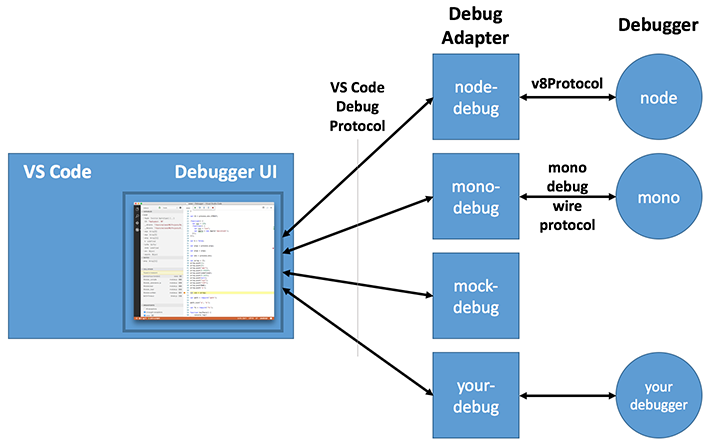
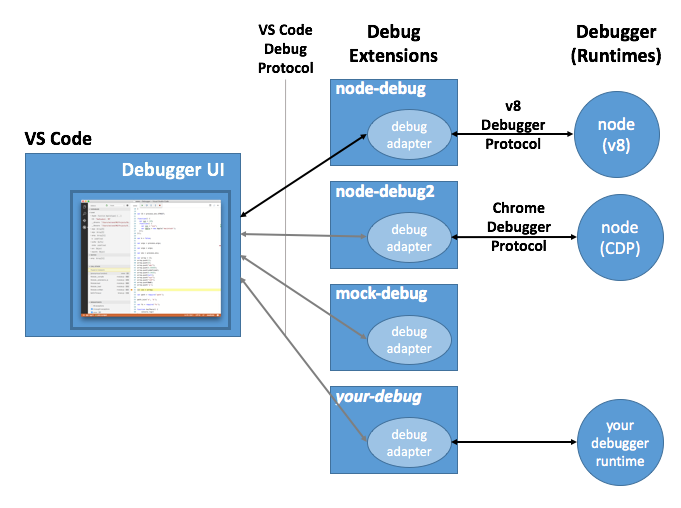
bring up-to-date

diff --git a/docs/extensions/example-debuggers.md b/docs/extensions/example-debuggers.md
@@ -10,47 +10,54 @@ MetaDescription: Learn how to provide debug service extensions (plug-ins) for Vi
 
 # Example - Debuggers
 
-Since Visual Studio Code implements a generic (language agnostic) debug UI, it cannot talk to real debuggers but instead talks
-to so-called *debug adapters* through an abstract wire protocol. We call this protocol the *VS Code Debug Protocol* (or CDP for short).
-A debug adapter is a standalone executable that typically talks to a real debugger and translates between the abstract CDP and the concrete protocol of the debugger.
+Since Visual Studio Code implements a generic (language agnostic) debug UI, it cannot talk to real debuggers directly but instead relies
+on debug extensions for implementing the debugger or runtime specific functionality.
+
+These debug extensions differ from other extensions in that their implementation is not running in the extension host, but as a separate standalone program, a so-called _debug adapter_. We call these programs adapters because they "adapt" the API or protocol of a concrete debugger or runtime to the _VS Code Debug Protocol_ used by VS Code.
 
 ![Debugger Architecture](images/example-debuggers/debug-arch.png)
 
-In order to avoid problems with local firewalls, VS Code talks to the adapter through stdin/stdout instead of using a more sophisticated communication mechanism.
+The reasons for implementing the debug adapters as standalone excutables are twofold: first, it makes it possible to implement the adapter in the language most suitable for the given debugger or runtime. Second, a standalone program can more easily run in elevated mode if this is required by the underlying debugger or runtime.
 
-Every debug adapter defines a debug `type` which is referenced from a VS Code launch configuration.
-When a debug session is started, VS Code looks up the debug adapter based on the debug type and launches the executable as a separate process.
-When the debug session ends, the adapter is stopped.
+In order to avoid problems with local firewalls, VS Code communicates with the adapter through stdin/stdout instead of using a more sophisticated mechanism (e.g. sockets).
 
-Debug adapters are part of VS Code's extensible architecture: they are contributed as extensions. What sets them apart from other extensions is the fact that the debug adapter code is not running in the extension host, but as a separate standalone program. The reasons for this are twofold: first, it makes it possible to implement the adapter in the language most suitable for the given debugger or runtime. Second, a standalone program can more easily run in elevated mode if the need arises.
+Every debug extension defines a debug `type` which is referenced from a VS Code launch configuration.
+When a debug session is started, VS Code looks up the debug extension based on the debug type and launches the extension's debug adapter executable as a separate process. When the debug session ends, the adapter is stopped.
 
-Visual Studio Code ships with a debugger extension for Node.js. More debugger extensions are available from the [VS Code Marketplace](https://marketplace.visualstudio.com/vscode/Debuggers) or you can create a debugger extension yourself.
+Visual Studio Code ships with two debug extensions for Node.js: `node-debug` uses the (deprecated) v8 Debugger Protocol for node versions < 6.3 and `node-debug2` uses the Chrome Debugger Protocol (CDP) supported by node versions >= 6.3. Many more debugger extensions are available from the [VS Code Marketplace](https://marketplace.visualstudio.com/vscode/Debuggers) or you can create a debugger extension yourself.
 
-This document will show you how to create a new debugger extension.
+The rest of this document shows how to create a debugger extension.
 
-## Installing a Sample Debug Extension
+## The Mock Debug Extension
 
-Since creating a debug adapter from scratch is a bit heavy for this tutorial, we will start with a simple debug adapter which we have created as an educational debug adapter 'starter kit'. It is called 'mock-debug' because it does not talk to a real debugger but it 'mocks' one. So mock-debug simulates a debugger adapter and supports step, continue, breakpoints, exceptions, and variable access but it is not connected to any real debugger.
+Since creating a debug adapter from scratch is a bit heavy for this tutorial, we will start with a simple debug adapter which we have created as an educational debug adapter 'starter kit'. It is called _Mock Debug_ because it does not talk to a real debugger but it 'mocks' one. So Mock Debug simulates a debugger and supports step, continue, breakpoints, exceptions, and variable access but it is not connected to any real debugger.
 
 Before delving into the development setup for mock-debug, let's first install a [pre-built version](https://marketplace.visualstudio.com/items/andreweinand.mock-debug)
 from the VS Code Marketplace and play with it:
 
-* use the **Command Palette** `Extensions: Install Extension` to find and install the mock-debug extension,
-* restart VS Code.
+* switch to the Extensions viewlet and type 'mock' to search for the Mock Debug extension,
+* 'Install' and 'Reload' the extension.
 
-To try it:
+To try Mock Debug:
 
-* In VS Code, create a test project with a new "program" file `readme.md` and enter several lines of arbitrary text.
+* Create a new empty folder `mock test` and open it in VS Code.
+* Create a file `readme.md` and enter several lines of arbitrary text.
 * Switch to the Debug view and press the gear icon.
-* VS Code will let you select a debug environment (select "Mock Debugger") and creates a default launch configuration for it.
+* VS Code will let you select an 'environment' in order to create a default launch configuration. Pick "Mock Debug".
+* Press the green Start button and then Enter to confirm the suggested file 'readme.md'.
 
-If you now start the launch configuration, you can 'step through' the target file, set and hit breakpoints, and run into exceptions (if the word `exception` appears in a line).
+A debug session starts and you can 'step' through the readme file, set and hit breakpoints, and run into exceptions (if the word `exception` appears in a line).
 
 ![Mock Debugger running](images/example-debuggers/mock-debug.gif)
 
+Before using Mock Debug as a starting point for your own development, we recommend to uninstall the pre-built version first:
+
+* switch to the Extensions viewlet and click on the gear icon of the Mock Debug extension,
+* run the 'uninstall' action and then 'Reload' the window.
+
 ## Development Setup for mock-debug
 
-Now let's get the source for mock-debug and start development on it within VS Code:
+Now let's get the source for Mock Debug and start development on it within VS Code:
 
 ```
 git clone https://github.com/Microsoft/vscode-mock-debug.git
@@ -62,46 +69,55 @@ Open the project folder `vscode-mock-debug` in VS Code.
 
 What's in the package?
 
-* the mock-debug implementation lives in `src/mockDebug.ts`. There you find the request handlers for the various requests of the CDP.
-* `package.json`, the manifest for the mock-debug extension:
-  - lists the contributions of the mock-debug extension.
-  - the `compile` and `watch` scripts are used to transpile the TypeScript source into the `out` folder and watch for subsequent source modifications.
-  - the two dependencies `vscode-debugprotocol` and `vscode-debugadapter` are NPM modules that simplify the development of node-based debug adapters.
+* `package.json` is the manifest for the mock-debug extension:
+  - it lists the contributions of the mock-debug extension,
+  - the `compile` and `watch` scripts are used to transpile the TypeScript source into the `out` folder and watch for subsequent source modifications,
+  - the dependencies `vscode-debugprotocol`, `vscode-debugadapter`, and `vscode-debugadapter-testsupport` are NPM modules that simplify the development of node-based debug adapters.
+* the implementation of the debug adapter of the extension lives in `src/mockDebug.ts`. Here you find the handlers for the various requests of the VS Code debug protocol.
+* since the implementation of debug extension lives in the debug adapter, there is no need to have extension code at all (i.e. code that runs in the extension host process). However, Mock Debug has a small `src/extension.ts` because it illustrates what can be done in the extension code of a debug extension.
 
-Now build and launch the debug adapter by selecting the `Launch Extension` configuration and hitting `F5`.
+Now build and launch the mode-debug extension by selecting the `Extension` launch configuration and hitting `F5`.
 Initially this will do a full transpile of the TypeScript sources into the `out` folder.
 After the full build, a 'watcher task' is started that incrementally transpiles any changes you make.
 
-After building, a new VS Code window shows up where the mock-debug extension runs in debug mode.
-You can now open your test project with the `readme.md` file from above and 'debug' it.
+After transpiling the source, a new VS Code window ('[Extenson Development Host]') appears with the mock-debug extension now running in debug mode. From that window open your `mock test` project with the `readme.md` file, start a debug session with 'F5', and then step through it:
 
-This approach for launching the debug extension like any other extension works well for **running** the extension but not for **debugging** it. The problem is that the debug adapter runs as a separate process outside of the extension host.
-The solution for this problem is to run the debug adapter in server mode:
+![Debugging Extension and Server](images/example-debuggers/debug-mock-session.png)
 
-* run the `mock-debug server` launch configuration to start the debug adapter in server mode (it listens on port 4711)
-* set a breakpoint at the beginning of method `launchRequest(...)` in file `mockDebug.ts`
-* open the test project with the `readme.md` in an additional VS Code window
-* in that project add a launch config with a `debugServer` attribute like this:
+Since you are running the extension in debug mode, you could now set and hit breakpoints in `src/extension.ts` but as I've mentioned above, there is not much interesting code executing in the extension. The interesting code runs in the debug adapter which is a separate process.
+
+In order to debug the debug adapter itself, we have to run it in debug mode. This is most easily achieved by running the debug adapter in 'server mode' and configure VS Code to connect to it. In your VS Code vscode-mock-debug project select the launch configuration 'server' from the drop down menu and press the green Start button.
+
+Since we already had an active debug session for the extension the VS Code debugger UI now enters 'multi session' mode which is indicated by seeing the names of the two debug sessions **Extension** and **Server** showing up in the CALL STACK view:
+
+![Debugging Extension and Server](images/example-debuggers/debug-extension-server.png)
+
+Now we are able to debug both the extension and the debug adapter simultanously.
+A faster way to arrive here is by using the **Extension + Server** launch configuration which launches both sessions automatically.
+
+Set a breakpoint at the beginning of method `launchRequest(...)` in file `src/mockDebug.ts` and as a last step configure the mock debugger to connect to the debug adapter server by adding a `debugServer` attribute for port `4711` to your mock test launch config:
 
 ```json
 {
     "version": "0.2.0",
-
-    "configurations": [{
-		"debugServer": 4711,
-        "name": "mock test",
-        "type": "mock",
-        "request": "launch",
-        "program": "${workspaceRoot}/readme.md",
-        "stopOnEntry": true
-    }]
+    "configurations": [
+        {
+            "type": "mock",
+            "request": "launch",
+            "name": "mock test",
+            "program": "${workspaceRoot}/readme.md",
+            "stopOnEntry": true,
+            "debugServer": 4711
+        }
+    ]
 }
 ```
 
-* if you now launch this debug configuration, VS Code does not launch a debug adapter as a separate process but directly connects to local port 4711.
-* you should hit the breakpoint in `launchRequest`.
+If you now launch this debug configuration, VS Code does not start the mock debug adapter as a separate process but directly connects to local port 4711 of the already running server and you should hit the breakpoint in `launchRequest`.
 
-With this setup you can now easily edit, transpile, and debug the mock debug and turn it into the debug adapter you want to create.
+With this setup you can now easily edit, transpile, and debug Mock Debug.
+
+(and turn it into the debug adapter you want to create).
 
 
 ## Implementing the VS Code Debug Protocol
@@ -117,55 +133,55 @@ and **version** of the extension. Use the **categories** field to make the exten
 
 ```json
 {
-	"name": "mock-debug",
-	"version": "0.10.18",
-	"publisher": "vscode",
-	"description": "Starter extension for developing debug adapters for VS Code.",
-	"engines": { "vscode": "0.10.x" },
-	"categories": ["Debuggers"],
+    "name": "mock-debug",
+    "version": "0.10.18",
+    "publisher": "vscode",
+    "description": "Starter extension for developing debug adapters for VS Code.",
+    "engines": { "vscode": "0.10.x" },
+    "categories": ["Debuggers"],
 
-	"contributes": {
-		"breakpoints": [
-			{
-				"language": "markdown"
-			}
-		],
-		"debuggers": [{
-			"type": "mock",
-			"label": "Mock Debugger",
+    "contributes": {
+        "breakpoints": [
+            {
+                "language": "markdown"
+            }
+        ],
+        "debuggers": [{
+            "type": "mock",
+            "label": "Mock Debugger",
 
-			"program": "./out/mockDebug.js",
-			"runtime": "node",
+            "program": "./out/mockDebug.js",
+            "runtime": "node",
 
-			"configurationAttributes": {
-				"launch": {
-					"required": ["program"],
-					"properties": {
-						"program": {
-							"type": "string",
-							"description": "Workspace relative path to a text file.",
-							"default": "${workspaceRoot}/readme.md"
-						},
-						"stopOnEntry": {
-							"type": "boolean",
-							"description": "Automatically stop after launch.",
-							"default": true
-						}
-					}
-				}
-			},
+            "configurationAttributes": {
+                "launch": {
+                    "required": ["program"],
+                    "properties": {
+                        "program": {
+                            "type": "string",
+                            "description": "Workspace relative path to a text file.",
+                            "default": "${workspaceRoot}/readme.md"
+                        },
+                        "stopOnEntry": {
+                            "type": "boolean",
+                            "description": "Automatically stop after launch.",
+                            "default": true
+                        }
+                    }
+                }
+            },
 
-			"initialConfigurations": [
-				{
-					"name": "Mock-Debug",
-					"type": "mock",
-					"request": "launch",
-					"program": "readme.md",
-					"stopOnEntry": true
-				}
-			]
-		}]
-	}
+            "initialConfigurations": [
+                {
+                    "name": "Mock-Debug",
+                    "type": "mock",
+                    "request": "launch",
+                    "program": "readme.md",
+                    "stopOnEntry": true
+                }
+            ]
+        }]
+    }
 }
 ```
 
@@ -182,37 +198,37 @@ For this we have the following options:
 
 1. If the program is implemented in a platform independent way, e.g. as program that runs on a runtime that is available on all supported platforms, you can specify this runtime via the **runtime** attribute. As of today, VS Code supports 'node' and 'mono' runtimes. Our mock-debug adapter from above uses this approach.
 
-2. If your debug-adapter implementation needs different executables on different platforms, the **program** attribute can be qualified for specific platforms like this:
+1. If your debug-adapter implementation needs different executables on different platforms, the **program** attribute can be qualified for specific platforms like this:
 
-	```json
-	"debuggers": [{
-		"type": "gdb",
-		"windows": {
-			"program": "./bin/gdbDebug.exe",
-		},
-		"osx": {
-			"program": "./bin/gdbDebug.sh",
-		},
-		"linux": {
-			"program": "./bin/gdbDebug.sh",
-		}
-	}]
-	```
+    ```json
+    "debuggers": [{
+        "type": "gdb",
+        "windows": {
+            "program": "./bin/gdbDebug.exe",
+        },
+        "osx": {
+            "program": "./bin/gdbDebug.sh",
+        },
+        "linux": {
+            "program": "./bin/gdbDebug.sh",
+        }
+    }]
+    ```
 
-3. A combination of both approaches is possible too. The following example is from the mono-debug adapter which is implemented as a mono application that needs a runtime on OS X and Linux:
+1. A combination of both approaches is possible too. The following example is from the mono-debug adapter which is implemented as a mono application that needs a runtime on OS X and Linux:
 
-	```json
-	"debuggers": [{
-		"type": "mono",
-		"program": "./bin/monoDebug.exe",
-		"osx": {
-			"runtime": "mono"
-		},
-		"linux": {
-			"runtime": "mono"
-		}
-	}]
-	```
+    ```json
+    "debuggers": [{
+        "type": "mono",
+        "program": "./bin/monoDebug.exe",
+        "osx": {
+            "runtime": "mono"
+        },
+        "linux": {
+            "runtime": "mono"
+        }
+    }]
+    ```
 
 **configurationAttributes** represent attributes that are specific for your debugger and are used for validation and suggestion of values in 'launch.json'.
 
